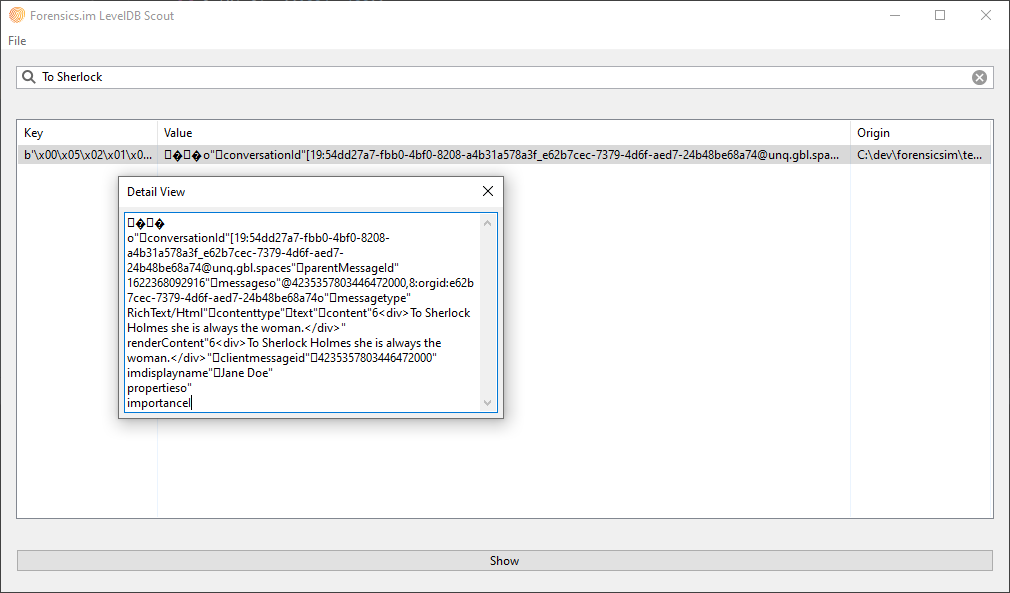
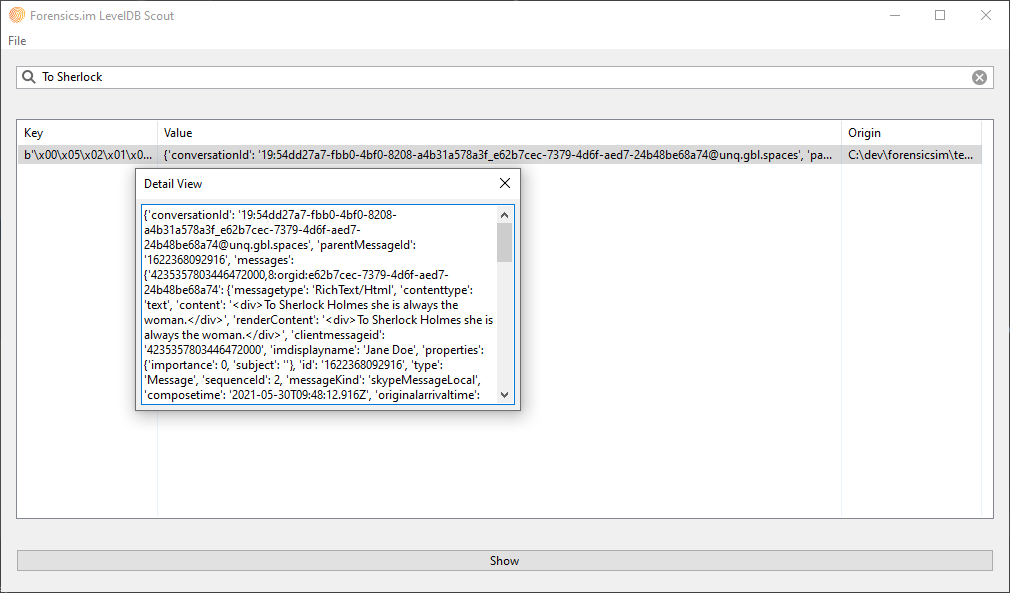
refactor: refactored object store selection from fixed IDs to names

Changed region(s): [[0.0921, 0.2125, 0.9822, 0.7285]]

diff --git a/utils/shared.py b/utils/shared.py
@@ -24,57 +24,143 @@ SOFTWARE.
 
 import io
 import json
+import os
 
 from ccl_chrome_indexeddb import ccl_blink_value_deserializer, ccl_chromium_indexeddb, ccl_v8_value_deserializer, \
     ccl_leveldb
+from ccl_chrome_indexeddb.ccl_chromium_indexeddb import DatabaseMetadataType, ObjectStoreMetadataType
 
-# db ID (second byte) is constant for the version analysed, store ids vary based on what we are looking for.
-TEAMS_DB_PREFIX = {'replychains': b'\x00\x05\x02\x01', 'conversations': b'\x00\x05\x04\x01',
-                   'people': b'\x00\x05\x07\x01'}
+TEAMS_DB_OBJECT_STORES = ['replychains', 'conversations', 'people']
+
+"""
+The following code is heavily adopted from the RawLevelDb and IndexedDB processing proposed by CCL Group
+
+https://github.com/cclgroupltd/ccl_chrome_indexeddb/blob/35b6a9efba1078cf339f9e64d2796b1f5f7c556f/ccl_chromium_indexeddb.py
+
+It uses an optimized enumeration approach for provessing the metadata, which makes the original IndexedDB super slow.
+
+Additionally, it has a flag to filter for datastores, which are interesting for us.
+"""
 
 
-def deserialize(db):
-    # Deserializer is adopted from but uses constant database and object stores IDs rather than looping through the dbs forever.
-    # https://github.com/cclgroupltd/ccl_chrome_indexeddb/blob/master/ccl_chromium_indexeddb.py
+class FastIndexedDB:
+    def __init__(self, leveldb_dir: os.PathLike):
+        self._db = ccl_leveldb.RawLevelDb(leveldb_dir)
+        self._fetched_records = []
+        self.global_metadata = None
+        self.database_metadata = None
+        self.object_store_meta = None
+        self.fetch_data()
 
-    # TODO refactor code to a subclass of RawLevelDB and override the iterator functionality
+    def fetch_data(self):
+        global_metadata_raw = {}
 
-    blink_deserializer = ccl_blink_value_deserializer.BlinkV8Deserializer()
+        database_metadata_raw = {}
+        objectstore_metadata_raw = {}
 
-    deserialized_db = []
-    for datastore in TEAMS_DB_PREFIX.keys():
+        self._fetched_records = []
+        # Fetch the records only once
+        for record in self._db.iterate_records_raw():
+            self._fetched_records.append(record)
 
-        prefix = TEAMS_DB_PREFIX[datastore]
-        for record in db.iterate_records_raw():
-            if record.key.startswith(prefix):
+        for record in self._fetched_records:
+            # Global Metadata
+            if record.key.startswith(b"\x00\x00\x00\x00") and record.state == ccl_leveldb.KeyState.Live:
+                if record.key not in global_metadata_raw or global_metadata_raw[record.key].seq < record.seq:
+                    global_metadata_raw[record.key] = record
 
-                if not record.value:
-                    continue
-                value_version, varint_raw = ccl_chromium_indexeddb.custom_le_varint_from_bytes(record.value)
-                val_idx = len(varint_raw)
-                # read the blink envelope
-                blink_type_tag = record.value[val_idx]
-                if blink_type_tag != 0xff:
-                    print("Blink type tag not present")
-                val_idx += 1
+        # Convert the raw metadata to a nice GlobalMetadata Object
+        global_metadata = ccl_chromium_indexeddb.GlobalMetadata(global_metadata_raw)
 
-                blink_version, varint_raw = ccl_chromium_indexeddb.custom_le_varint_from_bytes(record.value[val_idx:])
+        # Loop through the database IDs
+        for db_id in global_metadata.db_ids:
+            if db_id.dbid_no > 0x7f:
+                raise NotImplementedError("there could be this many dbs, but I don't support it yet")
 
-                val_idx += len(varint_raw)
+            # Database keys end with 0
+            prefix_database = bytes([0, db_id.dbid_no, 0, 0])
 
-                # read the raw value of the record.
-                obj_raw = io.BytesIO(record.value[val_idx:])
+            # Objetstore keys end with 50
+            prefix_objectstore = bytes([0, db_id.dbid_no, 0, 0, 50])
 
-                # Initialize deserializer and try deserialization.
-                deserializer = ccl_v8_value_deserializer.Deserializer(
-                    obj_raw, host_object_delegate=blink_deserializer.read)
-                try:
-                    value = deserializer.read()
-                    # TODO refactor code to a generator.
-                    deserialized_db.append({'value': value, 'origin_file': record.origin_file, 'store': datastore})
-                except Exception as e:
-                    pass
-    return deserialized_db
+            for record in reversed(self._fetched_records):
+                if record.key.startswith(prefix_database) and record.state == ccl_leveldb.KeyState.Live:
+                    # we only want live keys and the newest version thereof (highest seq)
+                    meta_type = record.key[len(prefix_database)]
+                    old_version = database_metadata_raw.get((db_id.dbid_no, meta_type))
+                    if old_version is None or old_version.seq < record.seq:
+                        database_metadata_raw[(db_id.dbid_no, meta_type)] = record
+                if record.key.startswith(prefix_objectstore) and record.state == ccl_leveldb.KeyState.Live:
+                    # we only want live keys and the newest version thereof (highest seq)
+                    objstore_id, varint_raw = ccl_chromium_indexeddb.custom_le_varint_from_bytes(
+                        record.key[len(prefix_objectstore):])
+                    meta_type = record.key[len(prefix_objectstore) + len(varint_raw)]
+
+                    old_version = objectstore_metadata_raw.get((db_id.dbid_no, objstore_id, meta_type))
+
+                    if old_version is None or old_version.seq < record.seq:
+                        objectstore_metadata_raw[(db_id.dbid_no, objstore_id, meta_type)] = record
+
+        self.global_metadata = global_metadata
+        self.database_metadata = ccl_chromium_indexeddb.DatabaseMetadata(database_metadata_raw)
+        self.object_store_meta = ccl_chromium_indexeddb.ObjectStoreMetadata(objectstore_metadata_raw)
+
+    def get_database_metadata(self, db_id: int, meta_type: DatabaseMetadataType):
+        return self.database_metadata.get_meta(db_id, meta_type)
+
+    def get_object_store_metadata(self, db_id: int, obj_store_id: int, meta_type: ObjectStoreMetadataType):
+        return self.object_store_meta.get_meta(db_id, obj_store_id, meta_type)
+
+    def iterate_records(self, do_not_filter=False):
+
+        blink_deserializer = ccl_blink_value_deserializer.BlinkV8Deserializer()
+        # Loop through the databases and object stores based on their ids
+        for global_id in self.global_metadata.db_ids:
+            for object_store_id in range(1, self.database_metadata.get_meta(global_id.dbid_no,
+                                                                            DatabaseMetadataType.MaximumObjectStoreId)):
+                datastore = self.object_store_meta.get_meta(global_id.dbid_no, object_store_id,
+                                                            ObjectStoreMetadataType.StoreName)
+                if datastore in TEAMS_DB_OBJECT_STORES or do_not_filter:
+                    prefix = bytes([0, global_id.dbid_no, object_store_id, 1])
+                    for record in self._fetched_records:
+                        if record.key.startswith(prefix):
+
+                            if not record.value:
+                                continue
+                            value_version, varint_raw = ccl_chromium_indexeddb.custom_le_varint_from_bytes(record.value)
+                            val_idx = len(varint_raw)
+                            # read the blink envelope
+                            blink_type_tag = record.value[val_idx]
+                            if blink_type_tag != 0xff:
+                                print("Blink type tag not present")
+                            val_idx += 1
+
+                            blink_version, varint_raw = ccl_chromium_indexeddb.custom_le_varint_from_bytes(
+                                record.value[val_idx:])
+
+                            val_idx += len(varint_raw)
+
+                            # read the raw value of the record.
+                            obj_raw = io.BytesIO(record.value[val_idx:])
+                            try:
+                                # Initialize deserializer and try deserialization.
+                                deserializer = ccl_v8_value_deserializer.Deserializer(
+                                    obj_raw, host_object_delegate=blink_deserializer.read)
+                                value = deserializer.read()
+                                yield {'key': record.key, 'value': value, 'origin_file': record.origin_file,
+                                       'store': datastore}
+                            except Exception as e:
+                                # TODO Some proper error handling wouldn't hurt
+                                continue
+
+
+def parse_db(filepath, do_not_filter=False):
+    # Open raw access to a LevelDB and deserialize the records.
+    db = FastIndexedDB(filepath)
+    extracted_values = []
+    for record in db.iterate_records(do_not_filter):
+        extracted_values.append(record)
+    return extracted_values
 
 
 def write_results_to_json(data, outputpath):
@@ -85,19 +171,6 @@ def write_results_to_json(data, outputpath):
     except EnvironmentError as e:
         print(e)
 
-
-def parse_db(filepath):
-    # Open raw access to a LevelDB and deserialize the records.
-    db = ccl_leveldb.RawLevelDb(filepath)
-    extracted_values = deserialize(db)
-    return extracted_values
-
-def parse_db_raw(filepath):
-    db = ccl_leveldb.RawLevelDb(filepath)
-    extracted_values = []
-    for record in db.iterate_records_raw():
-        extracted_values.append(record)
-    return extracted_values
 
 def parse_json():
     # read data from a file. This is only for testing purpose.

diff --git a/utils/scout_leveldb.py b/utils/scout_leveldb.py
@@ -29,17 +29,25 @@ import wx
 import shared
 
 
+class DataRecord:
+    def __init__(self, key, value, store):
+        self.key = key
+        self.value = value
+        self.store = store
+
+
 class DetailView(wx.Dialog):
     def __init__(self, db_record):
         title = "Detail View"
         super().__init__(parent=None, title=title)
         self.main_sizer = wx.BoxSizer(wx.VERTICAL)
         self.logs = wx.TextCtrl(self, id=-1, value='', pos=wx.DefaultPosition,
-                                size=(-1,300),
-                                style= wx.TE_MULTILINE | wx.SUNKEN_BORDER)
-        self.logs.AppendText(db_record.value.decode('utf-8', errors='replace') + "\n")
+                                size=(-1, 300),
+                                style=wx.TE_MULTILINE | wx.SUNKEN_BORDER)
+        self.logs.AppendText(db_record.value + "\n")
         self.main_sizer.Add(self.logs, 0, wx.ALL | wx.EXPAND, 5)
         self.SetSizer(self.main_sizer)
+
 
 class DBScoutPanel(wx.Panel):
     def __init__(self, parent):
@@ -84,12 +92,11 @@ class DBScoutPanel(wx.Panel):
         self.list_ctrl.InsertColumn(2, 'Origin', width=140)
 
     def insert_list_item(self, i, extracted_value):
-        self.list_ctrl.InsertItem(i,
-                                  str(extracted_value.key))
+        self.list_ctrl.InsertItem(i, extracted_value.key)
         self.list_ctrl.SetItem(i, 1,
-                               extracted_value.value.decode('utf-8', errors='replace'))
+                               extracted_value.value)
         self.list_ctrl.SetItem(i, 2,
-                               str(extracted_value.origin_file))
+                               extracted_value.store)
 
     def OnSearchCancel(self, evt):
         self.leveldb = self.leveldb_unfiltered
@@ -98,12 +105,11 @@ class DBScoutPanel(wx.Panel):
 
     def OnSearch(self, evt):
         value = self.search.GetValue()
-        value_bytes = str.encode(value)
         self.setup_list_ctr()
         i = 0
         updated_list = []
         for extracted_value in self.leveldb:
-            if value_bytes in extracted_value.value:
+            if str(value) in extracted_value.value:
                 updated_list.append(extracted_value)
                 self.insert_list_item(i, extracted_value)
                 i += 1
@@ -128,10 +134,18 @@ class DBScoutPanel(wx.Panel):
             raise Exception('Given file path is not a folder. Path: {}'.format(filepath))
 
         # convert the database to a python list with nested dictionaries
-        extracted_values = shared.parse_db_raw(filepath)
-        self.leveldb = extracted_values
-        self.leveldb_unfiltered = extracted_values
-        for i, extracted_value in enumerate(extracted_values):
+        extracted_records = shared.parse_db(filepath)
+        processed_records = []
+        for record in extracted_records:
+            try:
+                processed_records.append(
+                    DataRecord(str(record['key']), str(record['value']), str(record['origin_file'])))
+            except UnicodeDecodeError:
+                continue
+
+        self.leveldb = processed_records
+        self.leveldb_unfiltered = processed_records
+        for i, extracted_value in enumerate(processed_records):
             self.insert_list_item(i, extracted_value)
 
 

diff --git a/utils/main.py b/utils/main.py
@@ -78,7 +78,6 @@ def parse_contacts(contacts):
             cleaned.append(x)
         except UnicodeDecodeError or KeyError:
             print("Could not decode contact.")
-            print(contact)
 
     # Deduplicate based on mri - should be unique anyway
     cleaned = deduplicate(cleaned, 'mri')
@@ -132,9 +131,9 @@ def parse_reply_chain(reply_chains):
                 # Other types include ThreadActivity/TopicUpdate and ThreadActivity/AddMember
                 # -> ThreadActivity/TopicUpdate occurs for meeting updates
                 # -> ThreadActivity/AddMember occurs when someone gets added to a chat
-            except UnicodeDecodeError or KeyError:
+            except UnicodeDecodeError or KeyError as e:
                 print("Could not decode reply chain.")
-                print(reply_chain)
+
     # Deduplicate based on cachedDeduplicationKey, as messages appear often multiple times within
     cleaned = deduplicate(cleaned, 'cachedDeduplicationKey')
     return cleaned
@@ -149,8 +148,8 @@ def parse_conversations(conversations):
             # Include file origin for records
             x['origin_file'] = conversation['origin_file']
             # Make first at sure that the conversation has a cachedDeduplicationKey
-            if 'lastMessage' in conversation['value']:
-                if 'cachedDeduplicationKey' in conversation['value']['lastMessage']:
+            if conversation['value'].get('lastMessage') is not None:
+                if conversation['value']['lastMessage'].get('cachedDeduplicationKey') is not None:
                     x['cachedDeduplicationKey'] = conversation['value']['lastMessage']['cachedDeduplicationKey']
                     # we are only interested in meetings for now
                     if x['type'] == 'Meeting':
@@ -162,7 +161,6 @@ def parse_conversations(conversations):
                                 cleaned.append(x)
         except UnicodeDecodeError or KeyError:
             print("Could not decode meeting.")
-            print(conversation)
         # Other types include Message, Chat, Space, however, these did not include any records of evidential value
         # for my test data. It might be relevant to investigate these further with a different test scenario.
 

diff --git a/utils/test.py b/utils/test.py
@@ -31,30 +31,11 @@ import pyfiglet.fonts
 import shared
 
 
-def process_db(filepath, output_path):
-    # Do some basic error handling
-    if not filepath.endswith('leveldb'):
-        raise Exception('Expected a leveldb folder. Path: {}'.format(filepath))
-
-    p = Path(filepath)
-    if not p.exists():
-        raise Exception('Given file path does not exists. Path: {}'.format(filepath))
-
-    if not p.is_dir():
-        raise Exception('Given file path is not a folder. Path: {}'.format(filepath))
-
-    # convert the database to a python list with nested dictionaries
-    extracted_values = shared.parse_db(filepath, True)
-
-    # write the output to a json file
-    shared.write_results_to_json(extracted_values, output_path)
-
-
 def run(args):
-    process_db(args.filepath, args.outputpath)
-
+    a = shared.parse_db(args.filepath)
+    shared.write_results_to_json(a, args.outputpath)
 def parse_cmdline():
-    description = 'Forensics.im Dump Tool'
+    description = 'Forensics.im Test Tool'
     parser = argparse.ArgumentParser(description=description)
     required_group = parser.add_argument_group('required arguments')
     required_group.add_argument('-f', '--filepath', required=True, help='File path to the IndexedDB.')
@@ -63,7 +44,7 @@ def parse_cmdline():
     return args
 
 def cli():
-    header = pyfiglet.figlet_format("Forensics.im Dump Tool")
+    header = pyfiglet.figlet_format("Forensics.im Test Tool")
     print(header)
     args = parse_cmdline()
     run(args)

diff --git a/README.md b/README.md
@@ -85,10 +85,6 @@ basic manner. This script can come in handy, if you are trying to see if a certa
 to perform some manual data analysis. To open a database within the GUI, simply click on File -> Open LevelDB. Loading
 the database can take a seconds, so please be patient, as there is currently no progress bar implemented.
 
-Please note that the entries displayed in this application are currently not decoded, which might result in some
-unexpected characters occuring in the output. The output of this script should, therefore, be treated as a preview for
-the records that are available within the database.
-
 ![Autopsy Module](img/leveldb_scout.PNG)
 
 You can run the script like this:
